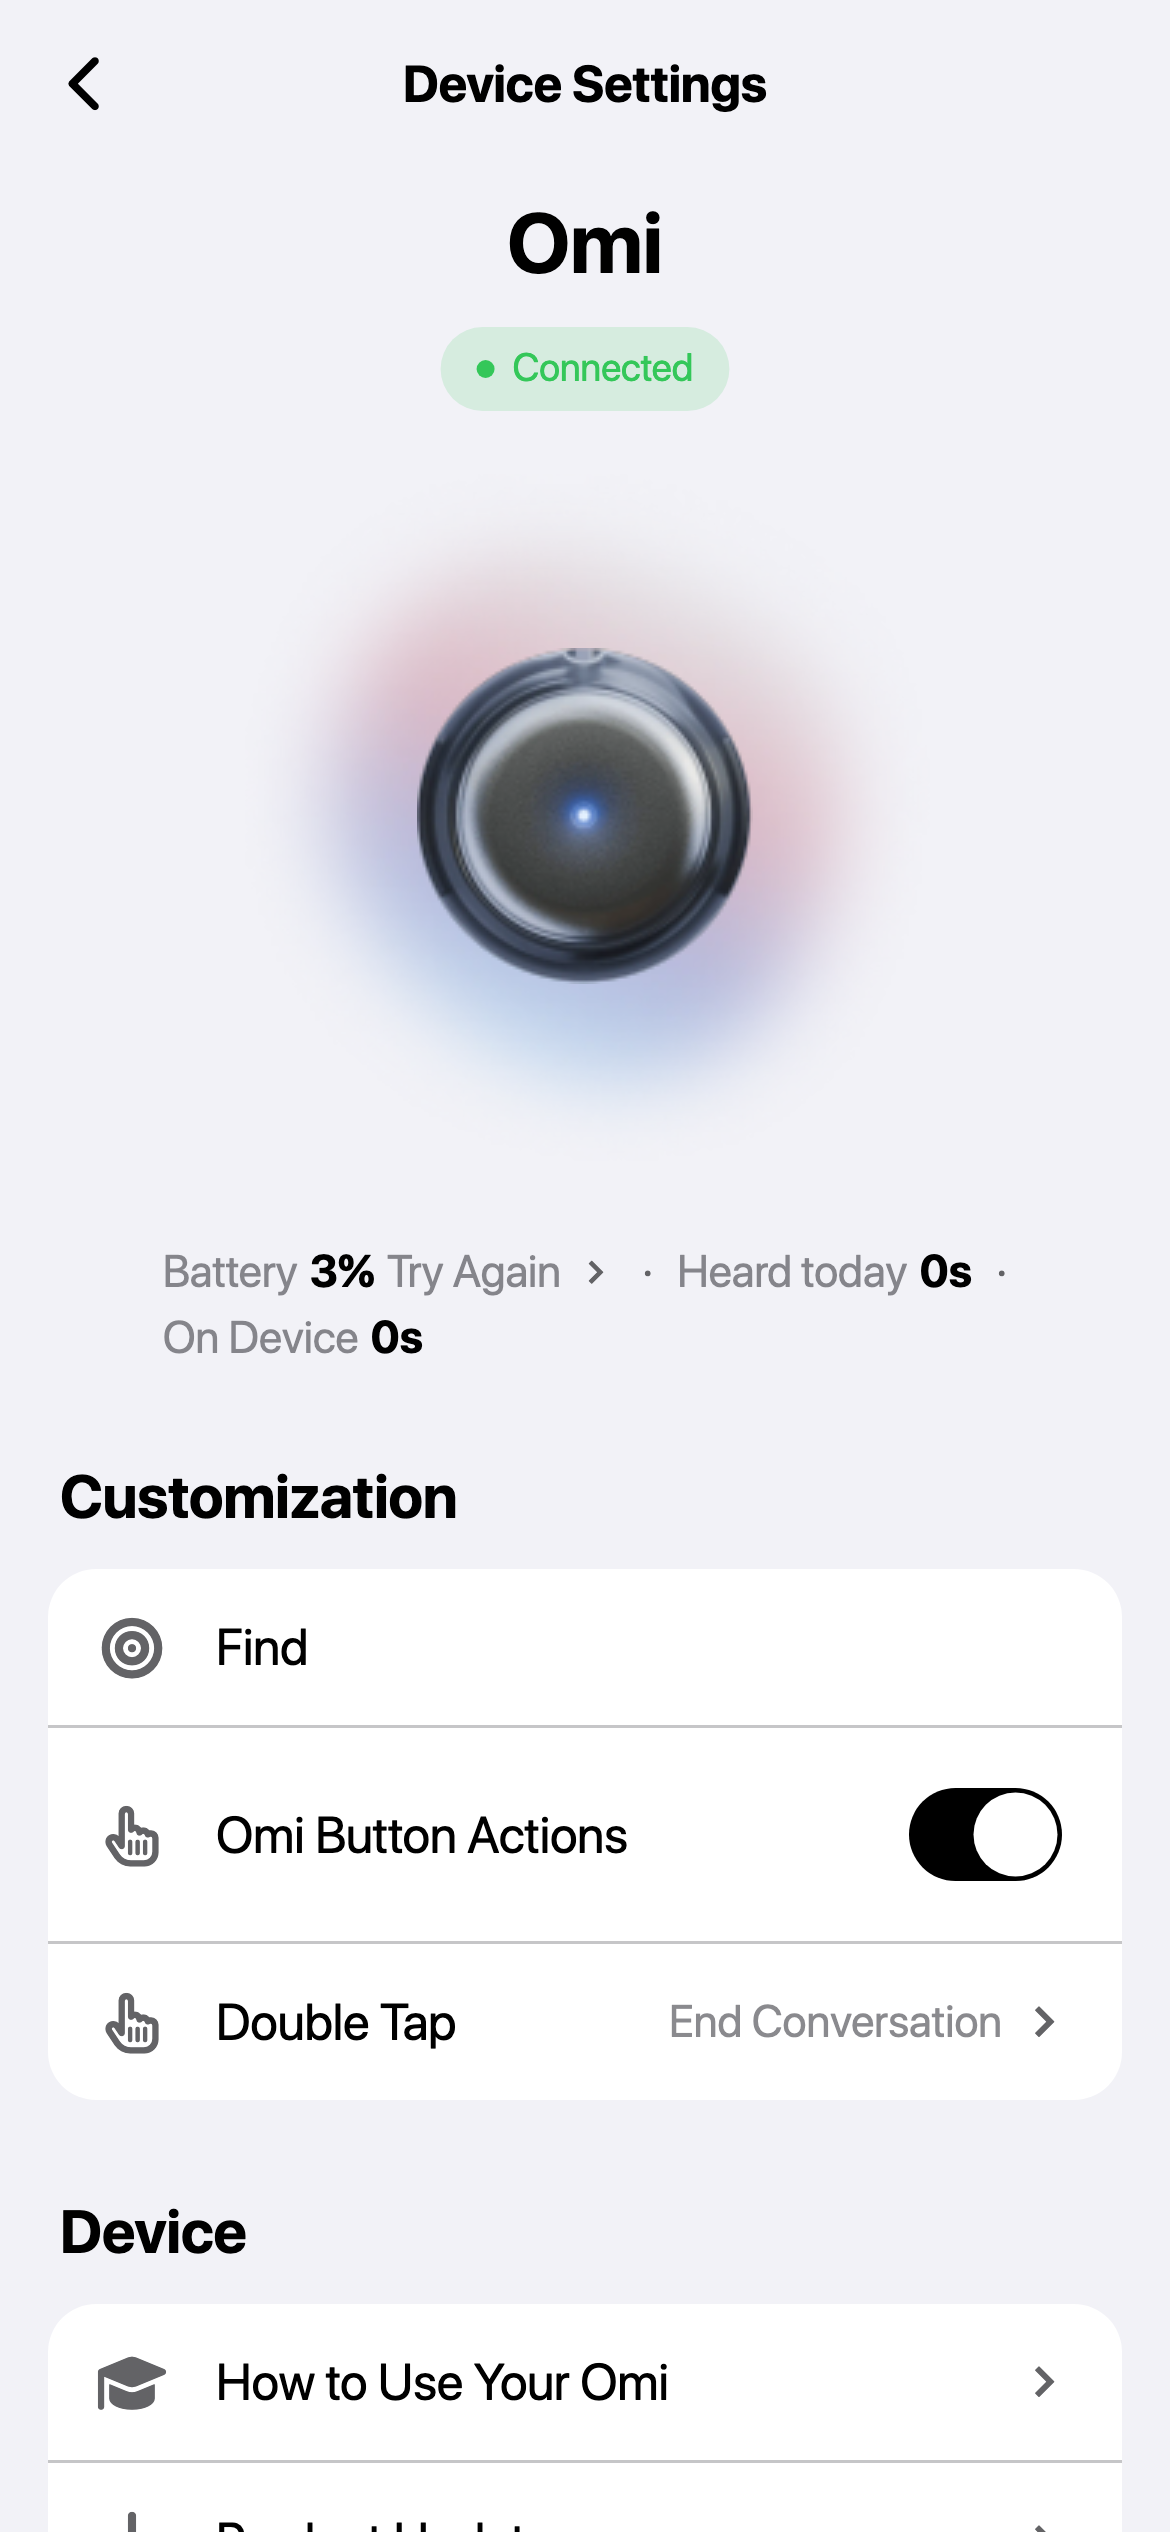
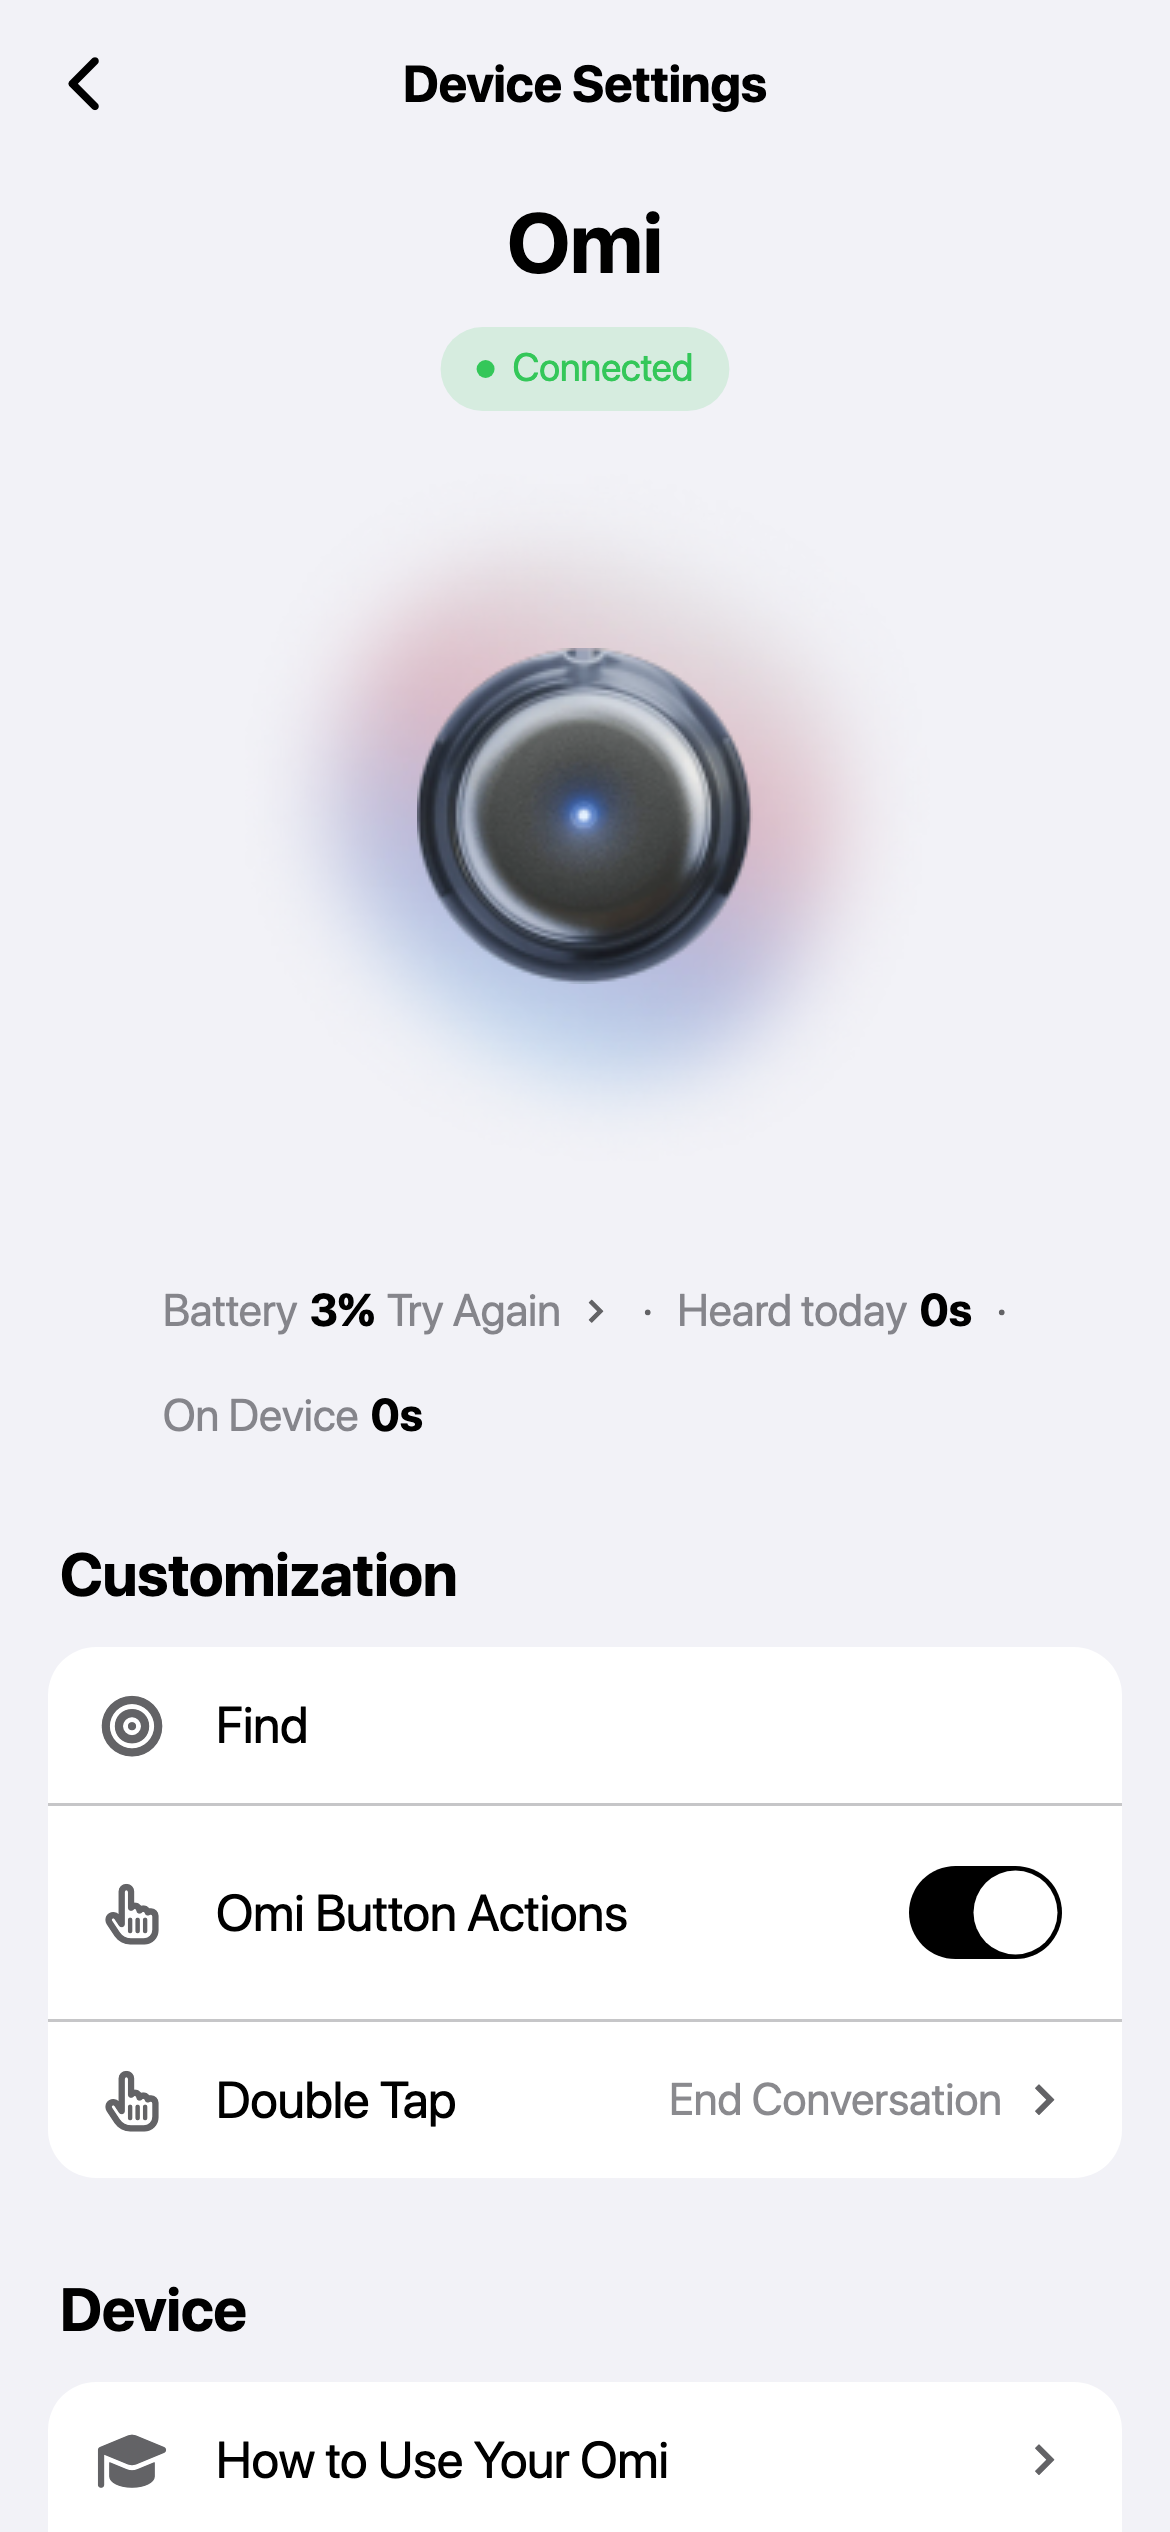
fix(app): make first-charge status and retry accessible

diff --git a/app/lib/providers/device_provider.dart b/app/lib/providers/device_provider.dart
@@ -660,7 +660,7 @@ class DeviceProvider extends ChangeNotifier implements IDeviceServiceSubsciption
     notifyListeners();
   }
 
-  void _publishBatterySample(int value) {
+  void _publishBatterySample(int value, {bool refresh = false}) {
     if (value < 0 || value > 100) return;
     _batterySampleRevision++;
     if (batteryLevel != value) {
@@ -672,7 +672,7 @@ class DeviceProvider extends ChangeNotifier implements IDeviceServiceSubsciption
       );
     }
     _noteLowBattery(value);
-    _updateBatteryLevel(value);
+    _updateBatteryLevel(value, refresh: refresh);
   }
 
   void _noteLowBattery(int value) {
@@ -736,7 +736,7 @@ class DeviceProvider extends ChangeNotifier implements IDeviceServiceSubsciption
           _batterySampleRevision != sampleRevision ||
           level < 0 ||
           level > 100) return false;
-      _publishBatterySample(level);
+      _publishBatterySample(level, refresh: true);
       return true;
     } catch (e) {
       Logger.debug('Battery refresh failed: $e');
@@ -871,7 +871,8 @@ class DeviceProvider extends ChangeNotifier implements IDeviceServiceSubsciption
     _bleChargingStatusListener = null;
   }
 
-  bool _updateBatteryLevel(int value, {DateTime? now}) {
+  bool _updateBatteryLevel(int value, {DateTime? now, bool refresh = false}) {
+    final levelChanged = value != batteryLevel;
     batteryLevel = value;
     final currentTime = now ?? DateTime.now();
 
@@ -884,7 +885,8 @@ class DeviceProvider extends ChangeNotifier implements IDeviceServiceSubsciption
         (value < 20 && _lastNotifiedBatteryLevel >= 20) || (value >= 20 && _lastNotifiedBatteryLevel < 20);
     final crossedFirmwareThreshold =
         (value >= kFirmwareUpdateMinBattery) != (_lastNotifiedBatteryLevel >= kFirmwareUpdateMinBattery);
-    final shouldNotify = _lastNotifiedBatteryLevel == -1 ||
+    final shouldNotify = (refresh && levelChanged) ||
+        _lastNotifiedBatteryLevel == -1 ||
         delta >= 5 ||
         elapsed.inMinutes >= 15 ||
         crossedLowBatteryThreshold ||

diff --git a/app/lib/pages/settings/device/device_live_sections.dart b/app/lib/pages/settings/device/device_live_sections.dart
@@ -86,6 +86,7 @@ class DeviceStatsRow extends StatelessWidget {
     return Wrap(
       spacing: OmiSpacing.xs,
       runSpacing: OmiSpacing.xxs,
+      crossAxisAlignment: WrapCrossAlignment.center,
       children: [
         for (var i = 0; i < tiles.length; i++) ...[
           if (i > 0) Text('·', style: OmiType.subhead.copyWith(color: OmiColors.textTertiary)),
@@ -135,7 +136,15 @@ class _StatTile extends StatelessWidget {
       label: [label, value, if (caption != null) caption!, if (secondCaption != null) secondCaption!].join(', '),
       button: onTap != null,
       excludeSemantics: true,
-      child: onTap == null ? content : InkWell(onTap: onTap, child: content),
+      child: onTap == null
+          ? content
+          : InkWell(
+              onTap: onTap,
+              child: ConstrainedBox(
+                constraints: const BoxConstraints(minWidth: 44, minHeight: 44),
+                child: Align(widthFactor: 1, heightFactor: 1, child: content),
+              ),
+            ),
     );
   }
 }

diff --git a/app/lib/pages/onboarding/find_device/found_devices.dart b/app/lib/pages/onboarding/find_device/found_devices.dart
@@ -380,10 +380,13 @@ class _FoundDevicesState extends State<FoundDevices> with WidgetsBindingObserver
                   style: OmiType.body.copyWith(fontWeight: FontWeight.w500),
                 ),
               if (provider.isConnected && showOmiStatus)
-                Text(
-                  charging ? context.l10n.charging : context.l10n.deviceReadyToUse,
-                  textAlign: TextAlign.center,
-                  style: OmiType.footnote.copyWith(color: OmiColors.textSecondary),
+                Semantics(
+                  liveRegion: true,
+                  child: Text(
+                    charging ? context.l10n.charging : context.l10n.deviceReadyToUse,
+                    textAlign: TextAlign.center,
+                    style: OmiType.footnote.copyWith(color: OmiColors.textSecondary),
+                  ),
                 ),
               if (provider.isConnected && provider.deviceType != DeviceType.omi && provider.batteryPercentage > 0)
                 Padding(

diff --git a/app/test/providers/device_provider_fully_charged_alert_test.dart b/app/test/providers/device_provider_fully_charged_alert_test.dart
@@ -133,6 +133,13 @@ void main() {
     await tester.pump(const Duration(seconds: 1));
     expect(transport.batteryReads, 1);
     expect(provider.batteryLevel, 91);
+
+    var notifications = 0;
+    provider.addListener(() => notifications++);
+    transport.battery = [92];
+    expect(await provider.refreshBatteryLevel(), isTrue);
+    expect(provider.batteryLevel, 92);
+    expect(notifications, 1);
   });
 
   testWidgets('a delayed battery read from a retired link is discarded', (tester) async {

diff --git a/app/test/widgets/episodes_ui_test.dart b/app/test/widgets/episodes_ui_test.dart
@@ -1238,6 +1238,7 @@ void main() {
         onRetryBattery: () => checks++,
       )));
       expect(find.text('0%'), findsOneWidget);
+      expect(tester.getSize(find.byKey(const Key('device_stat_battery'))).height, greaterThanOrEqualTo(44));
       await tester.tap(find.text('Try Again'));
       expect(checks, 1);
     });
